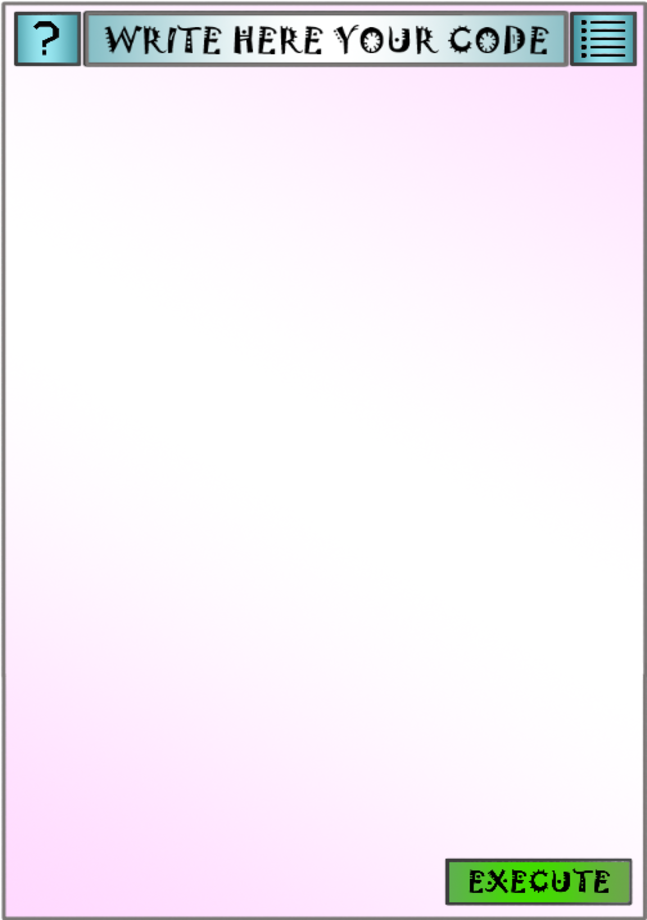
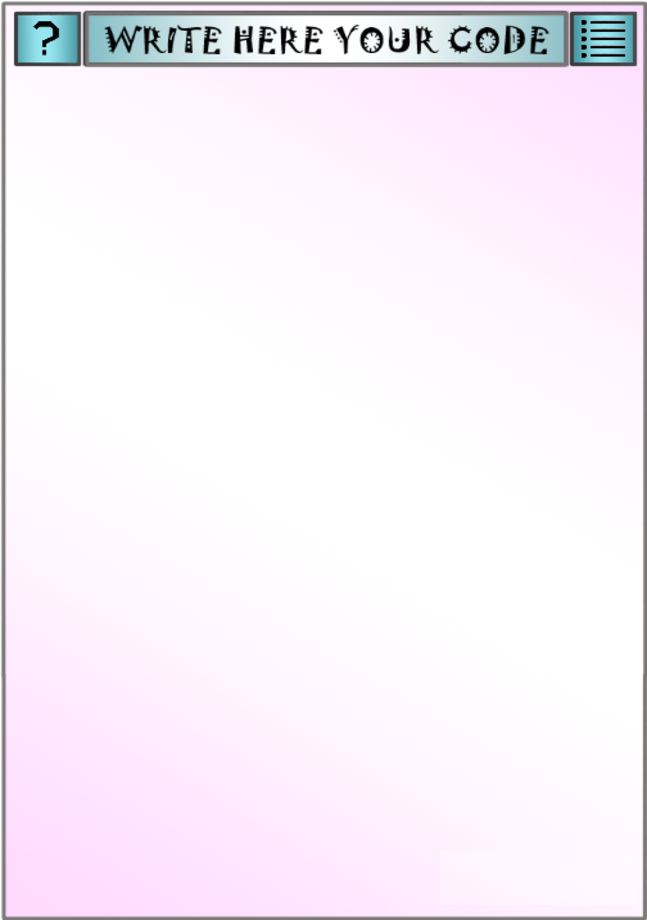
Update PVP design

Changed region(s): [[0.6801, 0.913, 0.9892, 1.0]]

diff --git a/public/stylesheets/level_PVP.css b/public/stylesheets/level_PVP.css
@@ -130,12 +130,12 @@ body{
 #btn-execute{
     display: inline-block;
     /*position: relative;*/
-    margin-bottom: 10px;
+    margin-top: 6%;
     margin-right: 1%;
     margin-left: 68.6%;
     top: -0.3%;
     width: 27.5%;
-    height: 6.5%;
+    height: 40px;
     text-decoration: none;
     font: 20px "Jokerman", Helvetica, Arial, sans-serif;
     font-weight: bold;
@@ -146,7 +146,7 @@ body{
 #label_tips_task{
     display: inline-block;
     position: relative;
-    margin-top: 7%;
+    margin-top: 8%;
     margin-left: 79.6%;
     top: -0.3%;
     width: 18.3%;
